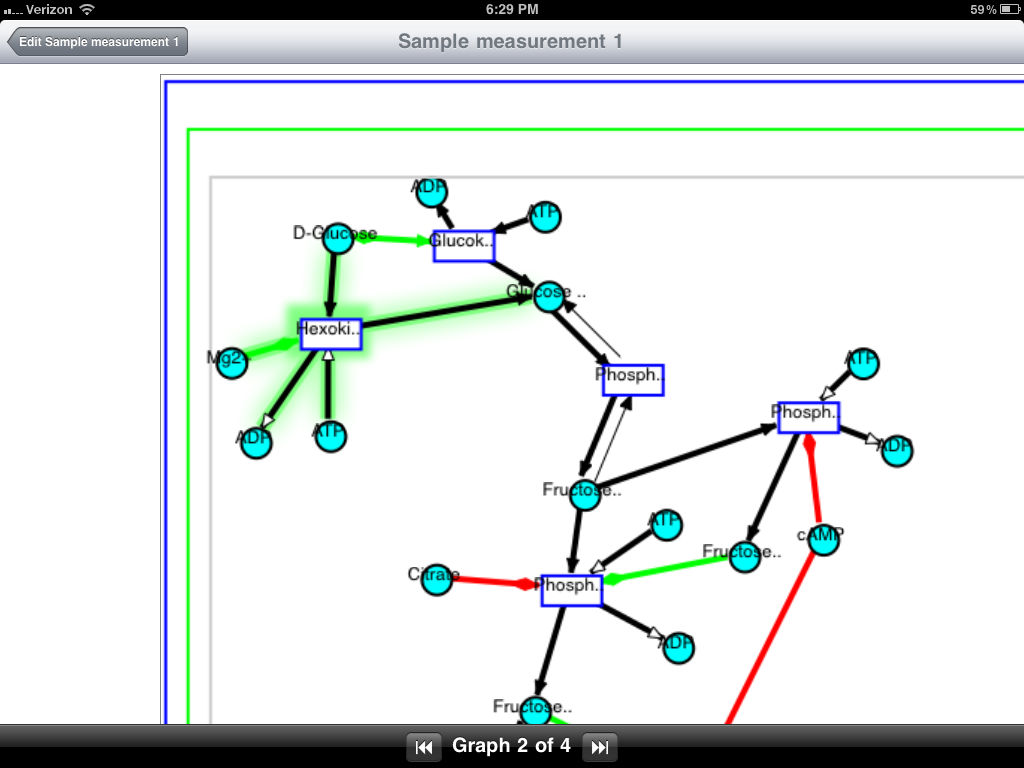
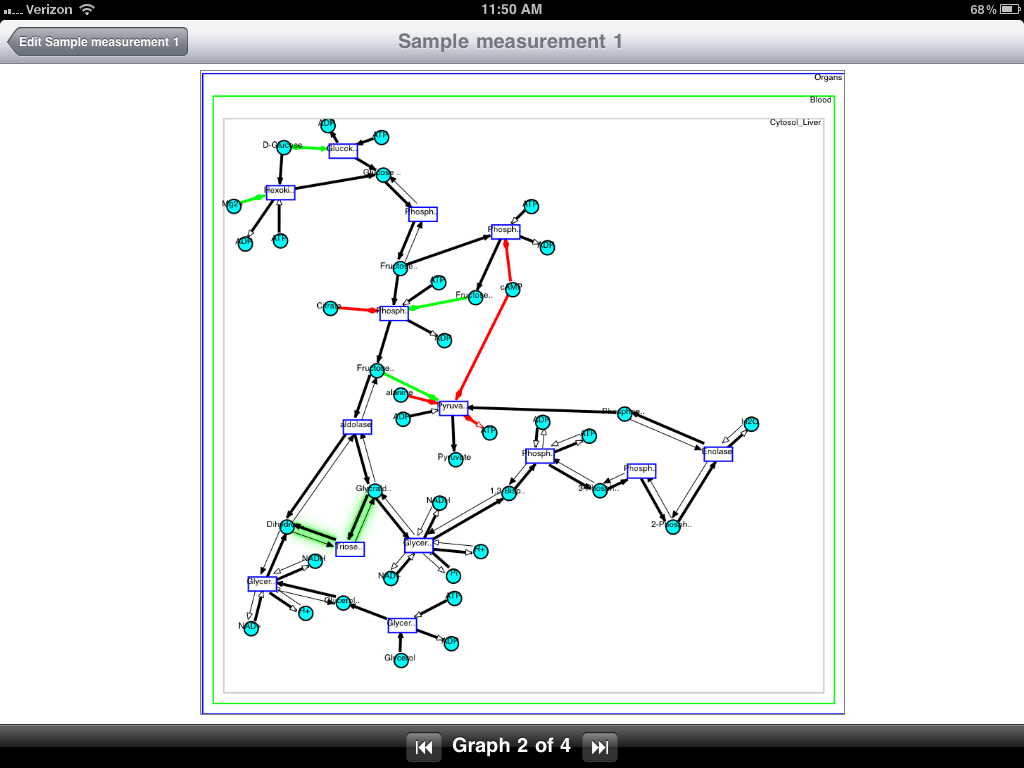
Wrote about SMDA

Changed region(s): [[0.1562, 0.0938, 1.0, 0.9688], [0.625, 0.8125, 0.6875, 0.875], [0.4688, 0.0, 0.5312, 0.0312]]

diff --git a/maw/smda_interface.tex b/maw/smda_interface.tex
@@ -1,2 +1,67 @@
 \subsection{Interface}
 \label{sect:smda_interface}
+
+The ``Experimental SMDA Tool'' button on the home screen takes the user to a
+list of measurements. The app comes with two example result sets to help the
+user get accustomed to the interface.
+
+\subsubsection{Input}
+\label{sect:smda_interface_input}
+
+Tapping one of these measurement lists switches to the screen shown in figure
+\ref{fig:screenshot_smda_list}. There is one section on this screen for each
+type of input to the SMDA algorithm: pathway, transport process, reaction,
+pathway as reaction, and measurement.
+
+\begin{figure}[htb]
+    \center{
+        \includegraphics[width=3in]{maw/figures/screenshot_smda_list}}
+    \caption{\label{fig:screenshot_smda_list} List of measurements in SMDA}
+\end{figure}
+
+\begin{figure}[htb]
+    \center{
+        \includegraphics[width=3in]{maw/figures/screenshot_smda_add_reaction}}
+    \caption{\label{fig:smda_add_reaction} Adding a reaction in SMDA}
+\end{figure}
+
+\begin{figure}[htb]
+    \center{
+        \includegraphics[width=3in]{maw/figures/screenshot_smda_edit_measurement}}
+    \caption{\label{fig:smda_edit_measurement} Editing a measurement in SMDA}
+\end{figure}
+
+New input parameters can be added by tapping the ``Add'' row in any of the
+sections. Figure \ref{fig:smda_add_reaction} shows the screen for adding a new
+reaction. Tapping an existing row brings up the same screen, allowing the user
+to change their selection.
+
+Figure \ref{fig:smda_edit_measurement} shows a similar screen for editing
+measurements.
+
+\subsubsection{Output}
+\label{sect:smda_interface_output}
+
+The interface for browsing SMDA results is very similar to the one for looking
+at a normal pathway. There are two main differences. The first, shown in figure
+\ref{fig:smda_results}, is the bottom toolbar that provides buttons to move
+forward and backward in the list of scenarios.
+
+\begin{figure}[htb]
+    \center{
+        \includegraphics[width=3in]{maw/figures/screenshot_smda_results}}
+    \caption{\label{fig:smda_results} One scenario in an SMDA result set}
+\end{figure}
+
+The second difference, shown in figure \ref{fig:smda_results_highlight}, is the
+green highight shown behind edges coming out of a reaction if that reaction is
+in a different active/inactive state from the previously viewed scenario. In
+this example, ``Triose...'' was inactive in scenario 1 but active in scenario 2.
+Flipping between the two scenarios will keep this reaction highlighted.
+
+\begin{figure}[htb]
+    \center{
+        \includegraphics[width=3in]{maw/figures/screenshot_smda_results_highlight}}
+    \caption{\label{fig:smda_results_highlight} Zoomed view of a highlighted
+    reaction in an SMDA scenario}
+\end{figure}

diff --git a/maw/implementation.tex b/maw/implementation.tex
@@ -38,10 +38,10 @@ and zoomable fashion.
 The Pathways button causes a popover list of available pathways to be displayed.
 This popover is populated by \texttt{PCPathwayListTableController}, which
 transforms pathway model objects into a form understood by the built-in table
-view. When one of these pathway names is clicked, an event is sent back to
-the \texttt{PCPathwayNavController}, which loads the new pathway from the
-device's internal storage, builds a new \textt{PCGraphViewController}, and
-inserts it in the content area.
+view. When one of these pathway names is clicked, an event is sent back to the
+\texttt{PCPathwayNavController}, which loads the new pathway from the device's
+internal storage, builds a new \texttt{PCGraphViewController}, and inserts it in
+the content area.
 
 The graph view controller controls a \texttt{PCGraphView} which contains Core
 Animation layers that read the pathway model and render the nodes and edges with
@@ -58,11 +58,15 @@ can be updated whenever the user chooses via the user interface.
 
 Each web service corresponds roughly to one data type in the model, so those
 model objects contain methods to load their data from the corresponding web
-service. For example, the method \texttt{\[PCPathway loadDataFromServer\]}
+service. For example, the method \texttt{[PCPathway loadDataFromServer]}
 updates all pathway objects. However, this method relies on some data for
 tissues and metabolites to have been downloaded already, so the data update
 process uses mutexes and asynchronous network requests to ensure that the data
 is downloaded in the correct order while using parallelism as much as possible.
+
+These web service fetching methods convert the XML response of the web service
+into corresponding model objects (such as \texttt{SMDAPathway}) which are
+serialized to the device's internal storage.
 
 % \onecolumn
 

diff --git a/maw/main.tex b/maw/main.tex
@@ -5,9 +5,9 @@ Network Dynamics Analysis) tool.
 
 \section{Pathway Browser}
 
-The iPad application displays metabolic pathway graphs for all pathways for
-which PathCase provides a static layout. These graphs can be navigated by
-panning and zooming.
+The MAW iPad application displays metabolic pathway graphs for all pathways for
+which the PathCase MAW database provides a static layout. These graphs can be
+navigated by panning and zooming.
 
 \input{maw/interface}
 
@@ -15,6 +15,25 @@ panning and zooming.
 
 \section{SMDA}
 \label{sect:smda}
+
+SMDA (Steady-State Metabolic Network Dynamics Analysis) is a tool to analyze
+metabolomics data in terms of the dynamic behavior of the metabolic network.
+Given a set of metabolite measurements, it identifies the metabolic mechanisms
+that lead to changes in the concentrations of given metabolites, and interprets
+the metabolic consequences of the observed changes in terms of physiological
+problems, nutritional deficiencies, or diseases.
+
+The input data consists of one or more pathways, zero or more transport
+processes, zero or more reactions, and measurements of the amounts of specific
+metabolites within the pathways. This input forms a \textbf{sub-network}.
+
+The output is a set of all possible scenarios of the sub-network based on the
+input measurements. In a scenario, each reaction is labeled as either active or
+inactive.
+
+The iPad version of this tool allows the user to complete both the input and
+the output step. Input is done through a table-based user interface. The results
+are shown as a series of graph views that can be paged through.
 
 \input{maw/smda_interface}
 

diff --git a/maw/interface.tex b/maw/interface.tex
@@ -29,7 +29,8 @@ and zoom across a pathway. The view for glycolysis is shown in figure
 
 The rectangular nodes of the graph represent processes. The rest of the nodes
 represent metabolites. The edges represent relationships such as product,
-substrate, cofactor, or inhibitor.
+substrate, cofactor, or inhibitor. The rectangular outlines around sections of
+the graph represent the compartment that the pathway is classified under.
 
 When a node is tapped, a popover appears with the full name of the object
 represented by the nodes, as well as any relevant relationships or other
